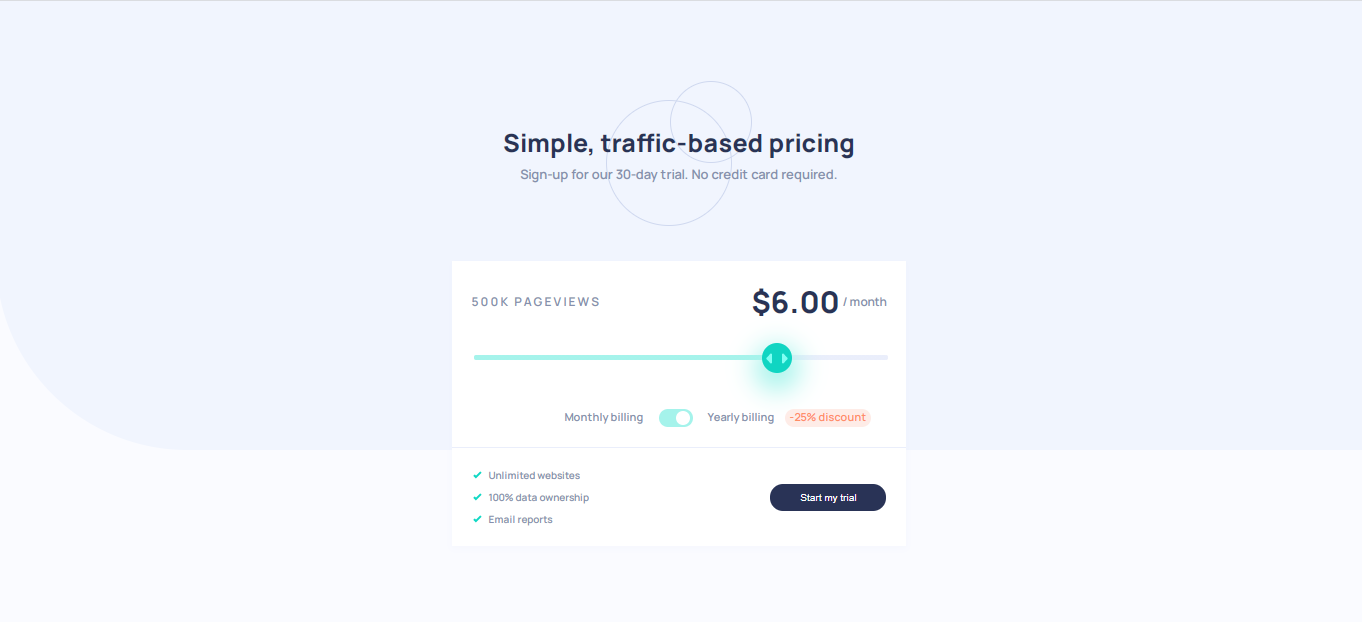
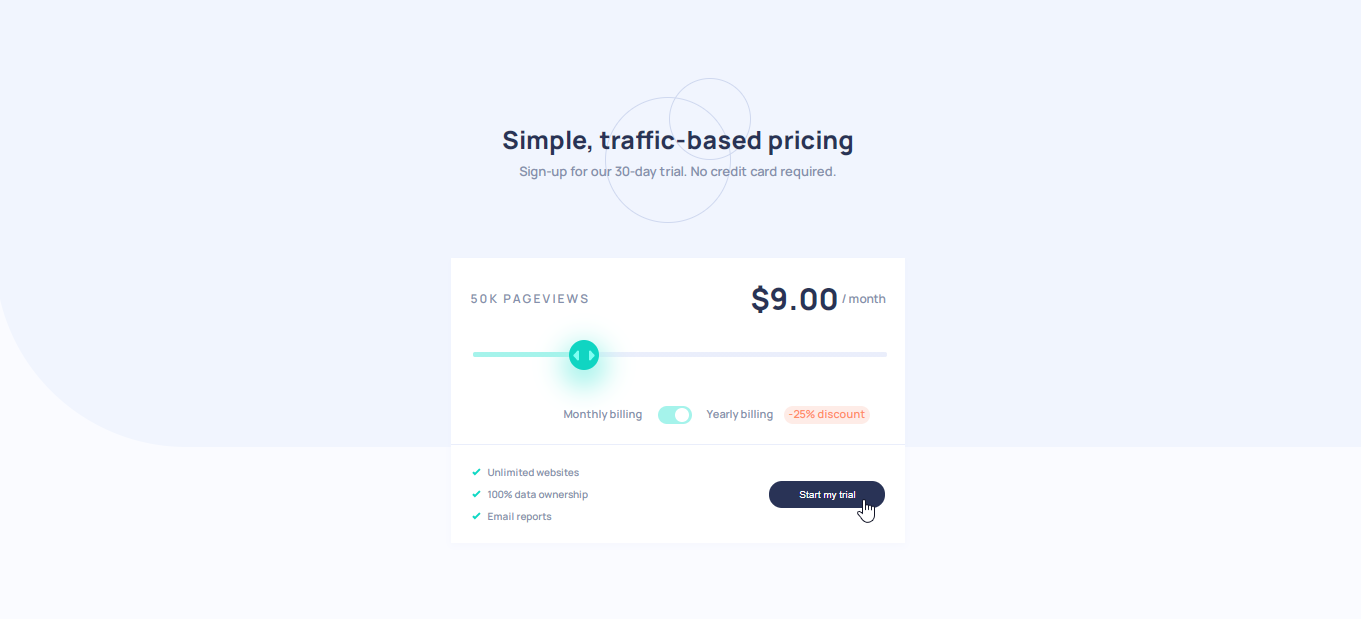
update slider component

diff --git a/src/SliderComponent.jsx b/src/SliderComponent.jsx
@@ -1,4 +1,4 @@
-import React, { useState } from "react";
+import React, { useState, useRef } from "react";
 
 const pricingData = [
   { views: "10K", price: 8 },
@@ -8,40 +8,46 @@ const pricingData = [
   { views: "1M", price: 32 },
 ];
 
-document.querySelectorAll(".slider").forEach(function (el) {
-  el.oninput = function () {
-    const valPercent =
-      (el.valueAsNumber - parseInt(el.min)) /
-      (parseInt(el.max) - parseInt(el.min));
-    const style =
-      "background-image: -webkit-gradient(linear, 0% 0%, 100% 0%, color-stop(" +
-      valPercent +
-      ", #a5f3eb), color-stop(" +
-      valPercent +
-      ", #eaeefb));";
-    el.style = style;
-  };
-  el.oninput();
-});
+const active = "#a5f3eb";
+const inactive = "#eaeefb";
+const minValue = 1;
+const maxValue = 5;
+const styleInput = {};
 
 const SliderComponent = () => {
   const [data, setData] = useState(pricingData[0]);
   const [discount, setDiscount] = useState(false);
+  const [rangeValue, setRangeValue] = useState(1);
+  const inputRef = useRef();
+
+  const handleChange = (event) => {
+    const value = event.target.value;
+    setData(pricingData[value - 1]);
+    setRangeValue(value);
+
+    const progress = (value - 1) * 25;
+    const newBackgroundStyle = `linear-gradient(90deg, ${active} 0% ${progress}%,   ${inactive} ${progress}% 100%)`;
+    inputRef.current.style.background = newBackgroundStyle;
+  };
+
   return (
     <>
       <div className="price-box">
         <div className="pageviews">{data.views} pageviews</div>
         <div className="price">
-          <span>${discount ? data.price / 4 : data.price}.00</span> / month
+          <span>${discount ? data.price - data.price / 4 : data.price}.00</span>{" "}
+          / month
         </div>
         <div className="slider-row">
           <input
             type="range"
-            min="1"
-            max="5"
-            defaultValue={1}
+            min={minValue}
+            max={maxValue}
+            defaultValue={rangeValue}
             className="slider"
-            onChange={(e) => setData(pricingData[e.target.value - 1])}
+            ref={inputRef}
+            onChange={(e) => handleChange(e)}
+            style={styleInput}
           />
         </div>
       </div>
